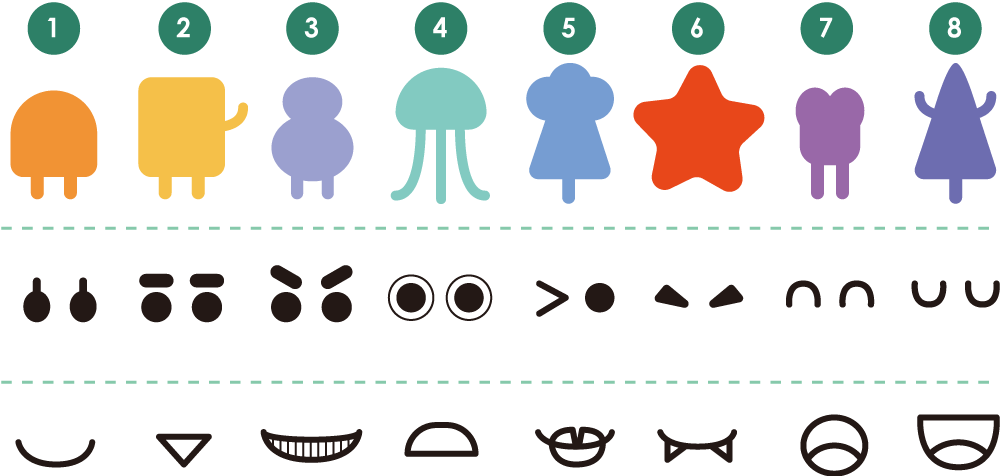
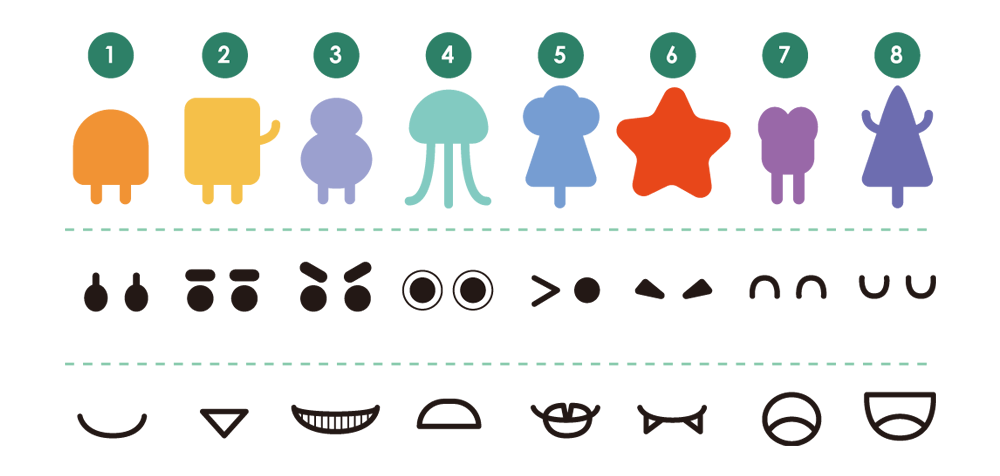
PT-8-3-4

diff --git a/web/DATA/PT/BOOK8/HTML/PT-8-3-3-2.html b/web/DATA/PT/BOOK8/HTML/PT-8-3-3-2.html
@@ -20,161 +20,162 @@
             <b>山海經夥伴</b
             >：透過點選各個身體部位組成自己的怪獸後，選出正確的身體部位數字。
           </p>
-          <img src="./DATA/PT/BOOK8/IMAGES/PT-8-3-3-4-1.png" />
+          <img src="./DATA/PT/BOOK8/IMAGES/PT-8-3-3-4-1-intro.png" />
           <span class="cta" onClick="switchIntro()">START</span>
         </div>
       </div>
-      <div class="puzzle withBG" style="max-width: 250px">
+      <div class="puzzle" style="max-width: 250px">
         <div class="subject">
           <div class="sensors" sticker_area="s1">
             <span
-              style="width: 23px; height: 30px; top: 15px; left: 0px"
+              style="width: 23px; height: 30px; top: 20px; left: 15px"
               sticker="./DATA/PT/BOOK8/IMAGES/b1.png"
               onClick="pasteSticker($(this))"
             />
             <span
-              style="width: 23px; height: 30px; top: 15px; left: 27px"
+              style="width: 23px; height: 30px; top: 20px; left: 45px"
               sticker="./DATA/PT/BOOK8/IMAGES/b2.png"
               onClick="pasteSticker($(this))"
             />
             <span
-              style="width: 23px; height: 30px; top: 15px; left: 54px"
+              style="width: 23px; height: 30px; top: 20px; left: 73px"
               sticker="./DATA/PT/BOOK8/IMAGES/b3.png"
               onClick="pasteSticker($(this))"
             />
             <span
-              style="width: 23px; height: 30px; top: 15px; left: 81px"
+              style="width: 23px; height: 30px; top: 20px; left: 101px"
               sticker="./DATA/PT/BOOK8/IMAGES/b4.png"
               onClick="pasteSticker($(this))"
             />
             <span
-              style="width: 23px; height: 30px; top: 15px; left: 107px"
+              style="width: 23px; height: 30px; top: 15px; left: 129px"
               sticker="./DATA/PT/BOOK8/IMAGES/b5.png"
               onClick="pasteSticker($(this))"
             />
             <span
-              style="width: 23px; height: 30px; top: 15px; left: 135px"
+              style="width: 23px; height: 30px; top: 20px; left: 157px"
               sticker="./DATA/PT/BOOK8/IMAGES/b6.png"
               onClick="pasteSticker($(this))"
             />
             <span
-              style="width: 23px; height: 30px; top: 15px; left: 163px"
+              style="width: 23px; height: 30px; top: 20px; left: 186px"
               sticker="./DATA/PT/BOOK8/IMAGES/b7.png"
               onClick="pasteSticker($(this))"
             />
             <span
-              style="width: 23px; height: 30px; top: 15px; left: 189px"
+              style="width: 23px; height: 30px; top: 20px; left: 212px"
               sticker="./DATA/PT/BOOK8/IMAGES/b8.png"
               onClick="pasteSticker($(this))"
             />
           </div>
           <div class="sensors" sticker_area="s2">
             <span
-              style="width: 23px; height: 30px; top: 48px; left: 0px"
+              style="width: 23px; height: 30px; top: 57px; left: 15px"
               sticker="./DATA/PT/BOOK8/IMAGES/e1.png"
               onClick="pasteSticker($(this))"
             />
             <span
-              style="width: 23px; height: 30px; top: 48px; left: 27px"
+              style="width: 23px; height: 30px; top: 57px; left: 45px"
               sticker="./DATA/PT/BOOK8/IMAGES/e2.png"
               onClick="pasteSticker($(this))"
             />
             <span
-              style="width: 23px; height: 30px; top: 48px; left: 54px"
+              style="width: 23px; height: 30px; top: 57px; left: 73px"
               sticker="./DATA/PT/BOOK8/IMAGES/e3.png"
               onClick="pasteSticker($(this))"
             />
             <span
-              style="width: 23px; height: 30px; top: 48px; left: 81px"
+              style="width: 23px; height: 30px; top: 57px; left: 101px"
               sticker="./DATA/PT/BOOK8/IMAGES/e4.png"
               onClick="pasteSticker($(this))"
             />
             <span
-              style="width: 23px; height: 30px; top: 48px; left: 107px"
+              style="width: 23px; height: 30px; top: 57px; left: 129px"
               sticker="./DATA/PT/BOOK8/IMAGES/e5.png"
               onClick="pasteSticker($(this))"
             />
             <span
-              style="width: 23px; height: 30px; top: 48px; left: 135px"
+              style="width: 23px; height: 30px; top: 57px; left: 157px"
               sticker="./DATA/PT/BOOK8/IMAGES/e6.png"
               onClick="pasteSticker($(this))"
             />
             <span
-              style="width: 23px; height: 30px; top: 48px; left: 163px"
+              style="width: 23px; height: 30px; top: 57px; left: 186px"
               sticker="./DATA/PT/BOOK8/IMAGES/e7.png"
               onClick="pasteSticker($(this))"
             />
             <span
-              style="width: 23px; height: 30px; top: 48px; left: 189px"
+              style="width: 23px; height: 30px; top: 57px; left: 212px"
               sticker="./DATA/PT/BOOK8/IMAGES/e8.png"
               onClick="pasteSticker($(this))"
             />
           </div>
           <div class="sensors" sticker_area="s3">
             <span
-              style="width: 23px; height: 30px; top: 80px; left: 0px"
+              style="width: 23px; height: 30px; top: 89px; left: 15px"
               sticker="./DATA/PT/BOOK8/IMAGES/m1.png"
               onClick="pasteSticker($(this))"
             />
             <span
-              style="width: 23px; height: 30px; top: 80px; left: 27px"
+              style="width: 23px; height: 30px; top: 89px; left: 45px"
               sticker="./DATA/PT/BOOK8/IMAGES/m2.png"
               onClick="pasteSticker($(this))"
             />
             <span
-              style="width: 23px; height: 30px; top: 80px; left: 54px"
+              style="width: 23px; height: 30px; top: 89px; left: 73px"
               sticker="./DATA/PT/BOOK8/IMAGES/m3.png"
               onClick="pasteSticker($(this))"
             />
             <span
-              style="width: 23px; height: 30px; top: 80px; left: 81px"
+              style="width: 23px; height: 30px; top: 89px; left: 101px"
               sticker="./DATA/PT/BOOK8/IMAGES/m4.png"
               onClick="pasteSticker($(this))"
             />
             <span
-              style="width: 23px; height: 30px; top: 80px; left: 107px"
+              style="width: 23px; height: 30px; top: 89px; left: 129px"
               sticker="./DATA/PT/BOOK8/IMAGES/m5.png"
               onClick="pasteSticker($(this))"
             />
             <span
-              style="width: 23px; height: 30px; top: 80px; left: 135px"
+              style="width: 23px; height: 30px; top: 89px; left: 157px"
               sticker="./DATA/PT/BOOK8/IMAGES/m6.png"
               onClick="pasteSticker($(this))"
             />
             <span
-              style="width: 23px; height: 30px; top: 80px; left: 163px"
+              style="width: 23px; height: 30px; top: 89px; left: 186px"
               sticker="./DATA/PT/BOOK8/IMAGES/m7.png"
               onClick="pasteSticker($(this))"
             />
             <span
-              style="width: 23px; height: 30px; top: 80px; left: 189px"
+              style="width: 23px; height: 30px; top: 89px; left: 212px"
               sticker="./DATA/PT/BOOK8/IMAGES/m8.png"
               onClick="pasteSticker($(this))"
             />
           </div>
           <div class="stickers">
             <span
-              style="width: 60px; height: 60px; top: 118px; left: 150px"
+              style="width: 60px; height: 60px; top: 146px; left: 183px"
               id="s1"
             />
             <span
-              style="width: 25px; height: 19px; top: 132px; left: 167px"
+              style="width: 25px; height: 19px; top: 158px; left: 201px"
               id="s2"
             />
             <span
-              style="width: 25px; height: 13px; top: 147px; left: 167px"
+              style="width: 25px; height: 13px; top: 173px; left: 201px"
               id="s3"
             />
           </div>
           <div class="counters">
             <span
               style="
-                top: 179px;
-                left: 156px;
+                top: 214px;
+                left: 190px;
                 height: 20px;
                 border: none;
                 line-height: 20px;
                 font-size: 14px;
+                background: none;
               "
               onClick="addup($(this),8)"
               aim="s1"
@@ -182,12 +183,13 @@
             >
             <span
               style="
-                top: 203px;
-                left: 156px;
+                top: 245px;
+                left: 190px;
                 height: 20px;
                 border: none;
                 line-height: 20px;
                 font-size: 14px;
+                background: none;
               "
               onClick="addup($(this),8)"
               aim="s2"
@@ -195,12 +197,13 @@
             >
             <span
               style="
-                top: 229px;
-                left: 156px;
+                top: 275px;
+                left: 190px;
                 height: 20px;
                 border: none;
                 line-height: 20px;
                 font-size: 14px;
+                background: none;
               "
               onClick="addup($(this),8)"
               aim="s3"
@@ -228,7 +231,7 @@
           <p>
             <b>山海經夥伴</b>：依照格子的序號，點選各個身體部位組成正確的怪獸。
           </p>
-          <img src="./DATA/PT/BOOK8/IMAGES/PT-8-3-3-5-1.png" />
+          <img src="./DATA/PT/BOOK8/IMAGES/PT-8-3-3-5-1-intro.png" />
           <span class="cta" onClick="switchIntro()">START</span>
         </div>
       </div>
